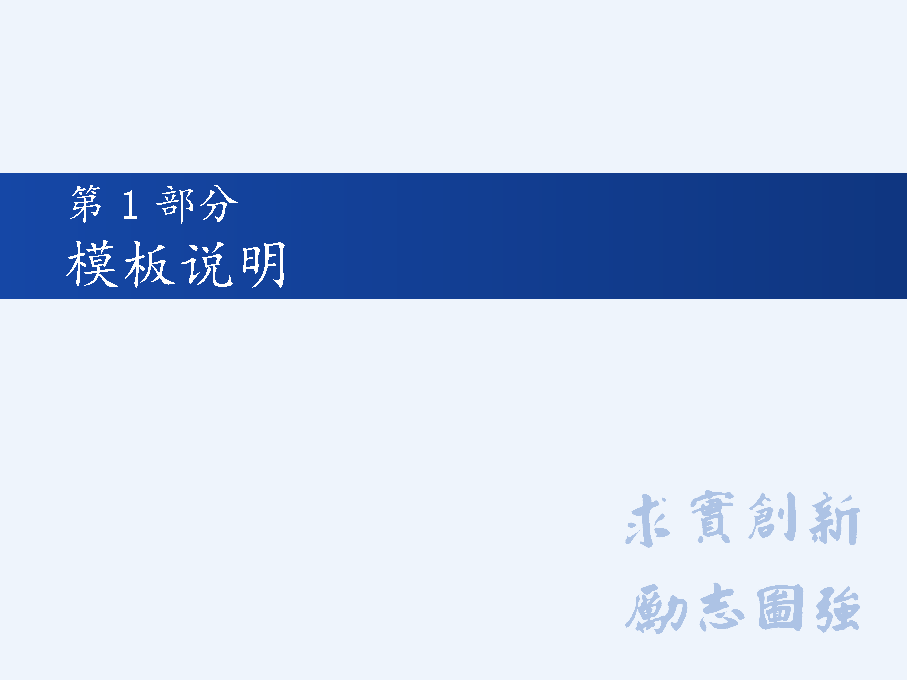
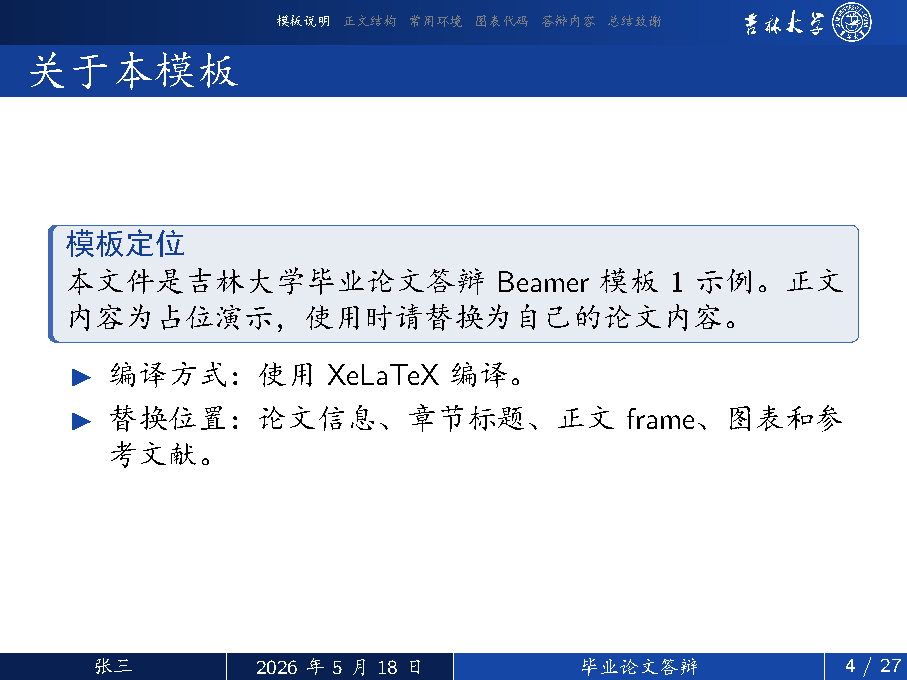
Show content slides in README previews

diff --git a/README.md b/README.md
@@ -22,11 +22,11 @@
 
 ## 模板预览
 
-| 模板 | 封面 | 章节页 |
+| 模板 | 封面 | 内页 |
 | --- | --- | --- |
-| 吉林大学模板1 | ![吉林大学模板1封面](docs/previews/jlu-cover.png) | ![吉林大学模板1章节页](docs/previews/jlu-slide.png) |
-| 吉林大学模板2 | ![吉林大学模板2封面](docs/previews/jlu-v2-cover.png) | ![吉林大学模板2章节页](docs/previews/jlu-v2-slide.png) |
-| 吉林大学数学学院模板 | ![吉林大学数学学院模板封面](docs/previews/math-cover.png) | ![吉林大学数学学院模板章节页](docs/previews/math-slide.png) |
+| 吉林大学模板1 | ![吉林大学模板1封面](docs/previews/jlu-cover.png) | ![吉林大学模板1内页](docs/previews/jlu-slide.png) |
+| 吉林大学模板2 | ![吉林大学模板2封面](docs/previews/jlu-v2-cover.png) | ![吉林大学模板2内页](docs/previews/jlu-v2-slide.png) |
+| 吉林大学数学学院模板 | ![吉林大学数学学院模板封面](docs/previews/math-cover.png) | ![吉林大学数学学院模板内页](docs/previews/math-slide.png) |
 
 ## 格式与实现
 
@@ -89,9 +89,9 @@ jluthesis-beamer/
 
 | 模板名称 | 最新 tag | ZIP 下载 |
 | --- | --- | --- |
-| 吉林大学模板1 | [`jlu-template-v2026.05.07-4`](https://github.com/Jackknifer/jluthesis-beamer/tree/jlu-template-v2026.05.07-4) | [下载 ZIP](https://github.com/Jackknifer/jluthesis-beamer/archive/refs/tags/jlu-template-v2026.05.07-4.zip) |
-| 吉林大学模板2 | [`jlu-v2-template-v2026.05.07-4`](https://github.com/Jackknifer/jluthesis-beamer/tree/jlu-v2-template-v2026.05.07-4) | [下载 ZIP](https://github.com/Jackknifer/jluthesis-beamer/archive/refs/tags/jlu-v2-template-v2026.05.07-4.zip) |
-| 吉林大学数学学院模板 | [`math-template-v2026.05.07-4`](https://github.com/Jackknifer/jluthesis-beamer/tree/math-template-v2026.05.07-4) | [下载 ZIP](https://github.com/Jackknifer/jluthesis-beamer/archive/refs/tags/math-template-v2026.05.07-4.zip) |
+| 吉林大学模板1 | [`jlu-template-v2026.05.07-5`](https://github.com/Jackknifer/jluthesis-beamer/tree/jlu-template-v2026.05.07-5) | [下载 ZIP](https://github.com/Jackknifer/jluthesis-beamer/archive/refs/tags/jlu-template-v2026.05.07-5.zip) |
+| 吉林大学模板2 | [`jlu-v2-template-v2026.05.07-5`](https://github.com/Jackknifer/jluthesis-beamer/tree/jlu-v2-template-v2026.05.07-5) | [下载 ZIP](https://github.com/Jackknifer/jluthesis-beamer/archive/refs/tags/jlu-v2-template-v2026.05.07-5.zip) |
+| 吉林大学数学学院模板 | [`math-template-v2026.05.07-5`](https://github.com/Jackknifer/jluthesis-beamer/tree/math-template-v2026.05.07-5) | [下载 ZIP](https://github.com/Jackknifer/jluthesis-beamer/archive/refs/tags/math-template-v2026.05.07-5.zip) |
 
 
 ## 字体与资源